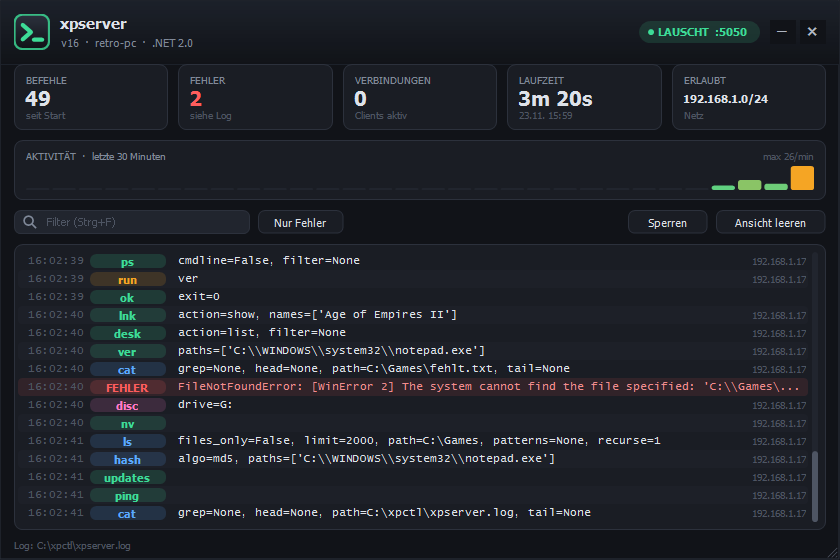
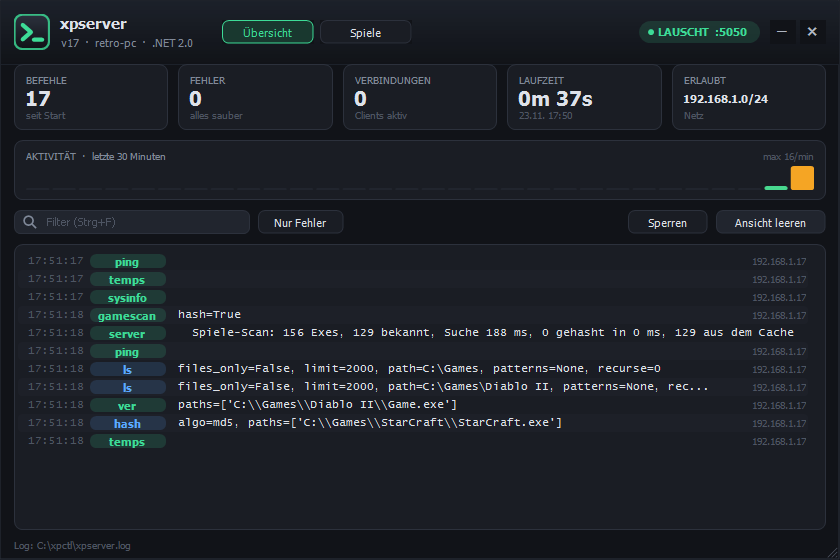
README: Screenshots Live-Fenster und Reiter Spiele (Demo-Modus) prominent oben

diff --git a/README.md b/README.md
@@ -7,7 +7,11 @@
 
 Remote control for Windows XP machines from your terminal. Built for retro PCs: start programs and installers, transfer files, read and operate windows, read the registry and system settings, arrange desktop shortcuts, mount CD images, back up CDs, install drivers, identify game versions and edit save games.
 
-![xpserver live window](docs/img/live-fenster.png)
+| Live window: commands, errors, activity, log | Games tab: installed vs. latest version of every known game |
+|---|---|
+| ![xpserver live window](docs/img/live-fenster.png) | ![xpserver games tab](docs/img/spiele.png) |
+
+The games tab checks every game the built-in version database knows (found via the GOG registry, registry hints and desktop shortcuts), matches it by file size first and confirms with an MD5 in the background. A second run takes about 0.3 s on a Pentium-era XP box. Same list in the terminal: `./xpctl.py gamecheck`.
 
 Note: the program itself speaks German for now. The tray UI, CLI help, command output and the screenshots are in German, the docs are in English.
 
